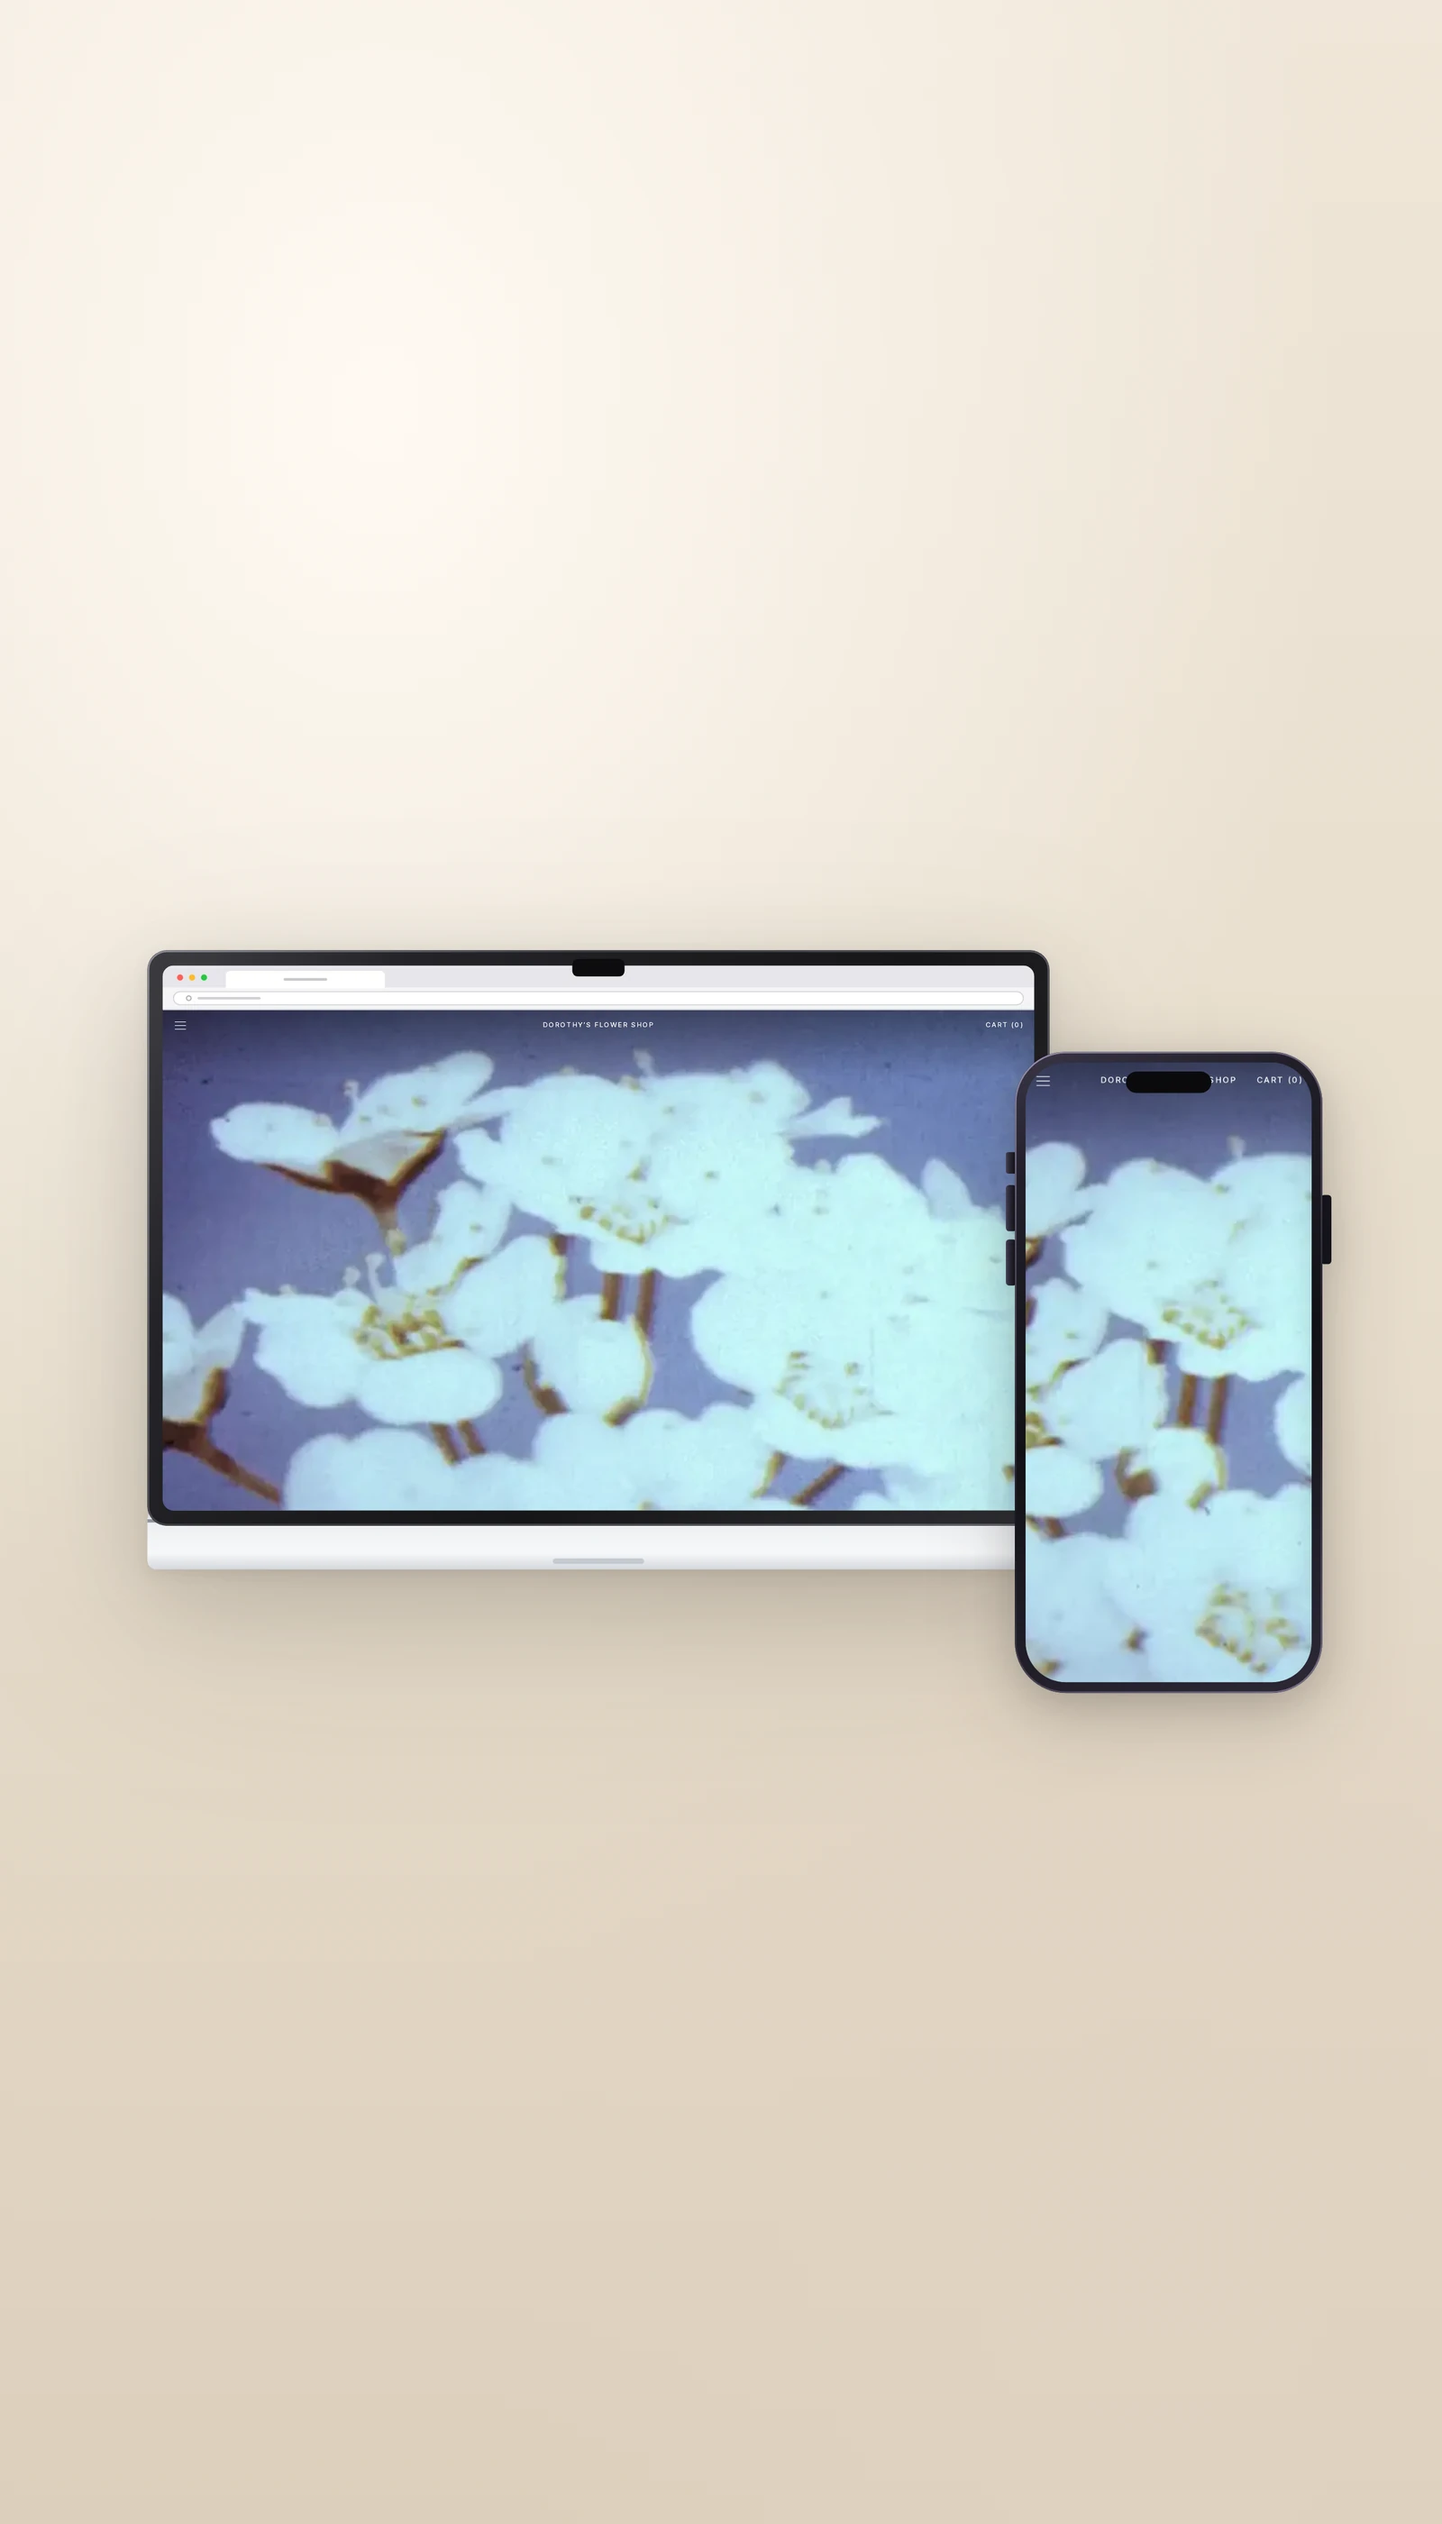
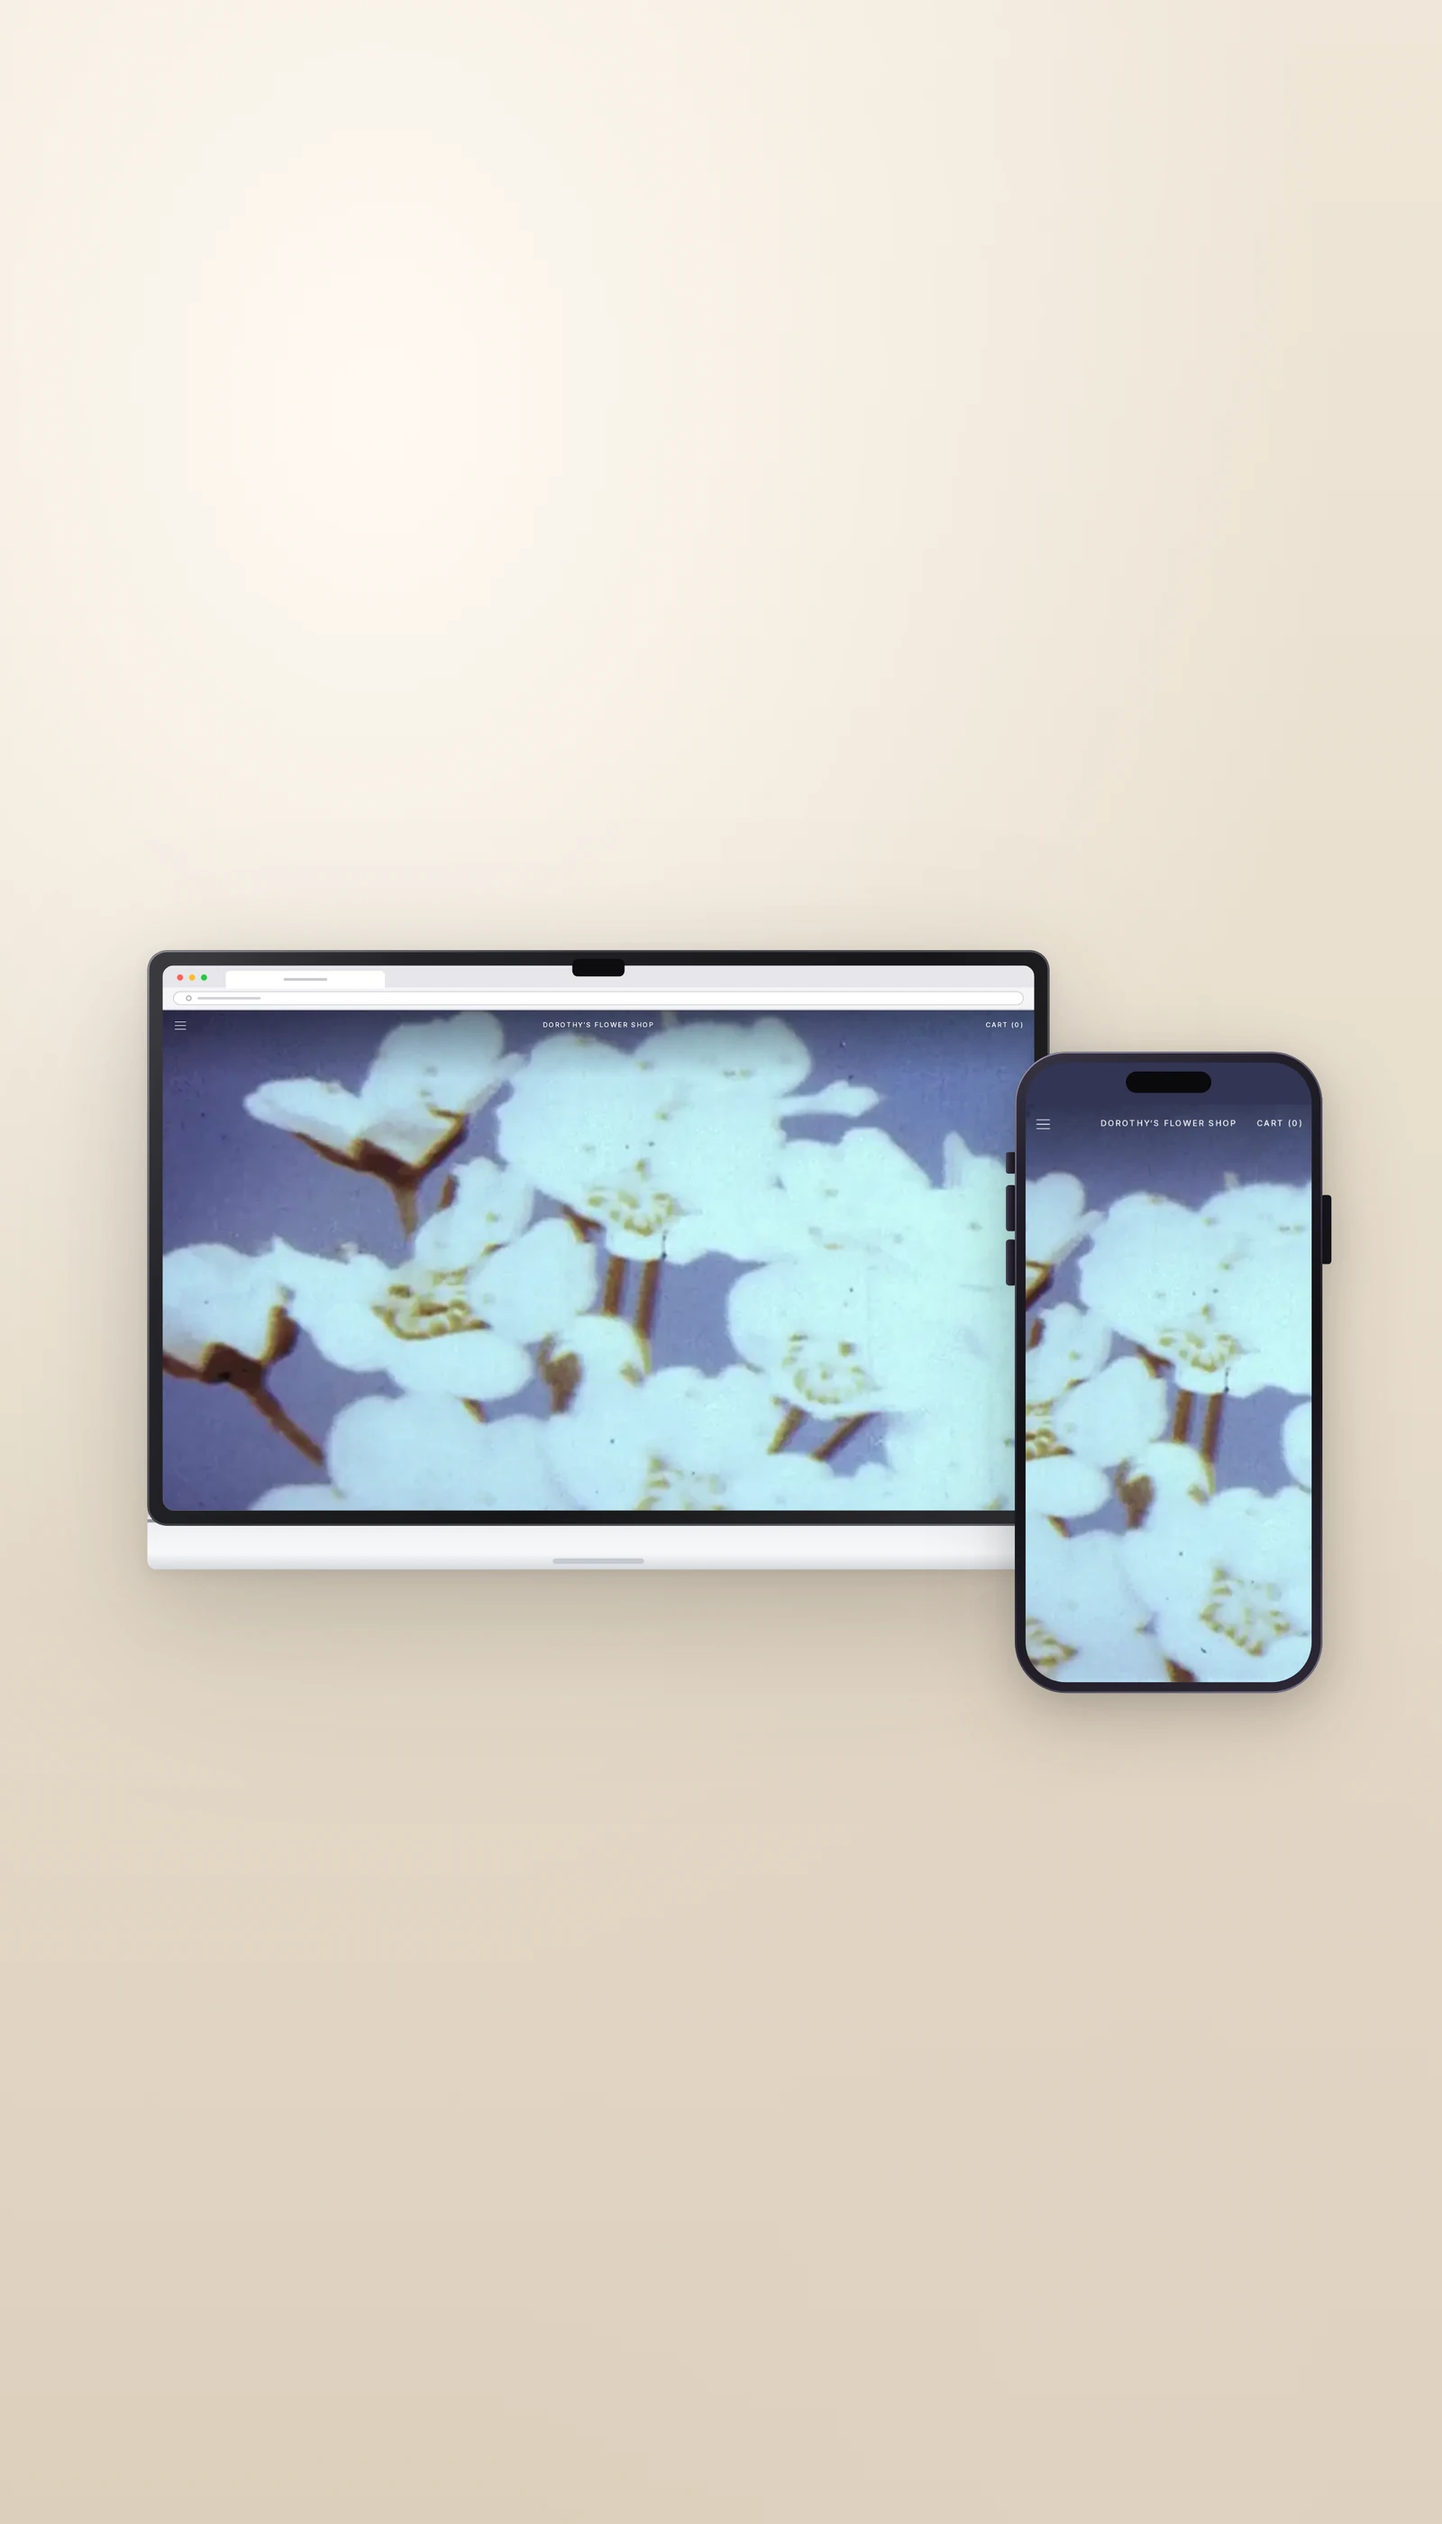
Fit Dorothy's screenshots to the laptop and phone screens
Recapture the live Dorothy's site at the laptop content aspect
(1440x828) and at a mobile viewport that matches the phone glass
below the Dynamic Island (390x781), so each shot fills its screen
edge to edge with the site's own layout. Cache bumped to 20261116f.

Changed region(s): [[0.0938, 0.4039, 0.9062, 0.6836]]

diff --git a/index.html b/index.html
@@ -28,7 +28,7 @@
   <link rel="preload" href="/assets/fonts/InstrumentSerif-latin.woff2" as="font" type="font/woff2" crossorigin>
   <link rel="preload" href="/assets/fonts/InstrumentSans-latin.woff2" as="font" type="font/woff2" crossorigin>
   <link rel="preload" href="/assets/fonts/SourceSerif4-latin.woff2" as="font" type="font/woff2" crossorigin>
-  <link rel="stylesheet" href="/assets/site.css?v=20261116e">
+  <link rel="stylesheet" href="/assets/site.css?v=20261116f">
 <style>
 .paths{padding:clamp(56px,8vw,112px) 0}
 .paths h2{margin:0 0 28px}
@@ -113,7 +113,7 @@
       </div>
       <div class="hero-cols-grid">
         <a class="hero-col businesses" href="/businesses">
-          <img src="/assets/hero/businesses-1600.webp" srcset="/assets/hero/businesses-800.webp 800w, /assets/hero/businesses-1600.webp 1600w" sizes="(max-width: 700px) 50vw, 25vw" alt="" width="800" height="1400" fetchpriority="high" decoding="async">
+          <img src="/assets/hero/businesses-1600.webp?v=20261116f" srcset="/assets/hero/businesses-800.webp?v=20261116f 800w, /assets/hero/businesses-1600.webp?v=20261116f 1600w" sizes="(max-width: 700px) 50vw, 25vw" alt="" width="800" height="1400" fetchpriority="high" decoding="async">
           <span class="hero-col-name">Businesses</span>
         </a>
         <a class="hero-col creators" href="/creators">
@@ -278,6 +278,6 @@
     </div>
   </footer>
 
-  <script src="/assets/site.js?v=20261116e"></script>
+  <script src="/assets/site.js?v=20261116f"></script>
 </body>
 </html>

diff --git a/creators.html b/creators.html
@@ -28,7 +28,7 @@
   <link rel="preload" href="/assets/fonts/InstrumentSerif-latin.woff2" as="font" type="font/woff2" crossorigin>
   <link rel="preload" href="/assets/fonts/InstrumentSans-latin.woff2" as="font" type="font/woff2" crossorigin>
   <link rel="preload" href="/assets/fonts/SourceSerif4-latin.woff2" as="font" type="font/woff2" crossorigin>
-  <link rel="stylesheet" href="/assets/site.css?v=20261116e">
+  <link rel="stylesheet" href="/assets/site.css?v=20261116f">
 <style>
 .page-hero{padding:clamp(24px,4vw,56px) 0 clamp(24px,4vw,48px)}.page-hero .k{margin:0 0 10px}
 .page-hero h1{font-family:"Instrument Serif",serif;font-weight:400;font-size:clamp(42px,6vw,76px);line-height:1.02;margin:0 0 18px;max-width:16ch}
@@ -241,6 +241,6 @@
     </div>
   </footer>
 
-  <script src="/assets/site.js?v=20261116e"></script>
+  <script src="/assets/site.js?v=20261116f"></script>
 </body>
 </html>

diff --git a/athletes.html b/athletes.html
@@ -28,7 +28,7 @@
   <link rel="preload" href="/assets/fonts/InstrumentSerif-latin.woff2" as="font" type="font/woff2" crossorigin>
   <link rel="preload" href="/assets/fonts/InstrumentSans-latin.woff2" as="font" type="font/woff2" crossorigin>
   <link rel="preload" href="/assets/fonts/SourceSerif4-latin.woff2" as="font" type="font/woff2" crossorigin>
-  <link rel="stylesheet" href="/assets/site.css?v=20261116e">
+  <link rel="stylesheet" href="/assets/site.css?v=20261116f">
 <style>
 .paths{padding:clamp(56px,8vw,112px) 0}
 .paths h2{margin:0 0 28px}
@@ -199,6 +199,6 @@
     </div>
   </footer>
 
-  <script src="/assets/site.js?v=20261116e"></script>
+  <script src="/assets/site.js?v=20261116f"></script>
 </body>
 </html>

diff --git a/businesses.html b/businesses.html
@@ -28,7 +28,7 @@
   <link rel="preload" href="/assets/fonts/InstrumentSerif-latin.woff2" as="font" type="font/woff2" crossorigin>
   <link rel="preload" href="/assets/fonts/InstrumentSans-latin.woff2" as="font" type="font/woff2" crossorigin>
   <link rel="preload" href="/assets/fonts/SourceSerif4-latin.woff2" as="font" type="font/woff2" crossorigin>
-  <link rel="stylesheet" href="/assets/site.css?v=20261116e">
+  <link rel="stylesheet" href="/assets/site.css?v=20261116f">
 <style>
 .paths{padding:clamp(56px,8vw,112px) 0}
 .paths h2{margin:0 0 28px}
@@ -199,6 +199,6 @@
     </div>
   </footer>
 
-  <script src="/assets/site.js?v=20261116e"></script>
+  <script src="/assets/site.js?v=20261116f"></script>
 </body>
 </html>

diff --git a/musicians.html b/musicians.html
@@ -28,7 +28,7 @@
   <link rel="preload" href="/assets/fonts/InstrumentSerif-latin.woff2" as="font" type="font/woff2" crossorigin>
   <link rel="preload" href="/assets/fonts/InstrumentSans-latin.woff2" as="font" type="font/woff2" crossorigin>
   <link rel="preload" href="/assets/fonts/SourceSerif4-latin.woff2" as="font" type="font/woff2" crossorigin>
-  <link rel="stylesheet" href="/assets/site.css?v=20261116e">
+  <link rel="stylesheet" href="/assets/site.css?v=20261116f">
 <style>
 .paths{padding:clamp(56px,8vw,112px) 0}
 .paths h2{margin:0 0 28px}
@@ -199,6 +199,6 @@
     </div>
   </footer>
 
-  <script src="/assets/site.js?v=20261116e"></script>
+  <script src="/assets/site.js?v=20261116f"></script>
 </body>
 </html>

diff --git a/404.html b/404.html
@@ -27,7 +27,7 @@
   <link rel="preload" href="/assets/fonts/InstrumentSerif-latin.woff2" as="font" type="font/woff2" crossorigin>
   <link rel="preload" href="/assets/fonts/InstrumentSans-latin.woff2" as="font" type="font/woff2" crossorigin>
   <link rel="preload" href="/assets/fonts/SourceSerif4-latin.woff2" as="font" type="font/woff2" crossorigin>
-  <link rel="stylesheet" href="/assets/site.css?v=20261116e">
+  <link rel="stylesheet" href="/assets/site.css?v=20261116f">
 </head>
 <body>
   <a class="skip" href="#main">Skip to the content</a>
@@ -135,6 +135,6 @@
     </div>
   </footer>
 
-  <script src="/assets/site.js?v=20261116e"></script>
+  <script src="/assets/site.js?v=20261116f"></script>
 </body>
 </html>

diff --git a/about.html b/about.html
@@ -27,7 +27,7 @@
   <link rel="preload" href="/assets/fonts/InstrumentSerif-latin.woff2" as="font" type="font/woff2" crossorigin>
   <link rel="preload" href="/assets/fonts/InstrumentSans-latin.woff2" as="font" type="font/woff2" crossorigin>
   <link rel="preload" href="/assets/fonts/SourceSerif4-latin.woff2" as="font" type="font/woff2" crossorigin>
-  <link rel="stylesheet" href="/assets/site.css?v=20261116e">
+  <link rel="stylesheet" href="/assets/site.css?v=20261116f">
 </head>
 <body>
   <a class="skip" href="#main">Skip to the content</a>
@@ -145,6 +145,6 @@
     </div>
   </footer>
 
-  <script src="/assets/site.js?v=20261116e"></script>
+  <script src="/assets/site.js?v=20261116f"></script>
 </body>
 </html>

diff --git a/accessibility.html b/accessibility.html
@@ -27,7 +27,7 @@
   <link rel="preload" href="/assets/fonts/InstrumentSerif-latin.woff2" as="font" type="font/woff2" crossorigin>
   <link rel="preload" href="/assets/fonts/InstrumentSans-latin.woff2" as="font" type="font/woff2" crossorigin>
   <link rel="preload" href="/assets/fonts/SourceSerif4-latin.woff2" as="font" type="font/woff2" crossorigin>
-  <link rel="stylesheet" href="/assets/site.css?v=20261116e">
+  <link rel="stylesheet" href="/assets/site.css?v=20261116f">
 </head>
 <body>
   <a class="skip" href="#main">Skip to the content</a>
@@ -170,6 +170,6 @@
     </div>
   </footer>
 
-  <script src="/assets/site.js?v=20261116e"></script>
+  <script src="/assets/site.js?v=20261116f"></script>
 </body>
 </html>

diff --git a/contact.html b/contact.html
@@ -27,7 +27,7 @@
   <link rel="preload" href="/assets/fonts/InstrumentSerif-latin.woff2" as="font" type="font/woff2" crossorigin>
   <link rel="preload" href="/assets/fonts/InstrumentSans-latin.woff2" as="font" type="font/woff2" crossorigin>
   <link rel="preload" href="/assets/fonts/SourceSerif4-latin.woff2" as="font" type="font/woff2" crossorigin>
-  <link rel="stylesheet" href="/assets/site.css?v=20261116e">
+  <link rel="stylesheet" href="/assets/site.css?v=20261116f">
 </head>
 <body>
   <a class="skip" href="#main">Skip to the content</a>
@@ -159,6 +159,6 @@
     </div>
   </footer>
 
-  <script src="/assets/site.js?v=20261116e"></script>
+  <script src="/assets/site.js?v=20261116f"></script>
 </body>
 </html>

diff --git a/cookies.html b/cookies.html
@@ -27,7 +27,7 @@
   <link rel="preload" href="/assets/fonts/InstrumentSerif-latin.woff2" as="font" type="font/woff2" crossorigin>
   <link rel="preload" href="/assets/fonts/InstrumentSans-latin.woff2" as="font" type="font/woff2" crossorigin>
   <link rel="preload" href="/assets/fonts/SourceSerif4-latin.woff2" as="font" type="font/woff2" crossorigin>
-  <link rel="stylesheet" href="/assets/site.css?v=20261116e">
+  <link rel="stylesheet" href="/assets/site.css?v=20261116f">
 </head>
 <body>
   <a class="skip" href="#main">Skip to the content</a>
@@ -170,6 +170,6 @@
     </div>
   </footer>
 
-  <script src="/assets/site.js?v=20261116e"></script>
+  <script src="/assets/site.js?v=20261116f"></script>
 </body>
 </html>

diff --git a/partners.html b/partners.html
@@ -27,7 +27,7 @@
   <link rel="preload" href="/assets/fonts/InstrumentSerif-latin.woff2" as="font" type="font/woff2" crossorigin>
   <link rel="preload" href="/assets/fonts/InstrumentSans-latin.woff2" as="font" type="font/woff2" crossorigin>
   <link rel="preload" href="/assets/fonts/SourceSerif4-latin.woff2" as="font" type="font/woff2" crossorigin>
-  <link rel="stylesheet" href="/assets/site.css?v=20261116e">
+  <link rel="stylesheet" href="/assets/site.css?v=20261116f">
 </head>
 <body>
   <a class="skip" href="#main">Skip to the content</a>
@@ -176,6 +176,6 @@
     </div>
   </footer>
 
-  <script src="/assets/site.js?v=20261116e"></script>
+  <script src="/assets/site.js?v=20261116f"></script>
 </body>
 </html>

diff --git a/privacy.html b/privacy.html
@@ -27,7 +27,7 @@
   <link rel="preload" href="/assets/fonts/InstrumentSerif-latin.woff2" as="font" type="font/woff2" crossorigin>
   <link rel="preload" href="/assets/fonts/InstrumentSans-latin.woff2" as="font" type="font/woff2" crossorigin>
   <link rel="preload" href="/assets/fonts/SourceSerif4-latin.woff2" as="font" type="font/woff2" crossorigin>
-  <link rel="stylesheet" href="/assets/site.css?v=20261116e">
+  <link rel="stylesheet" href="/assets/site.css?v=20261116f">
 </head>
 <body>
   <a class="skip" href="#main">Skip to the content</a>
@@ -315,6 +315,6 @@
     </div>
   </footer>
 
-  <script src="/assets/site.js?v=20261116e"></script>
+  <script src="/assets/site.js?v=20261116f"></script>
 </body>
 </html>
